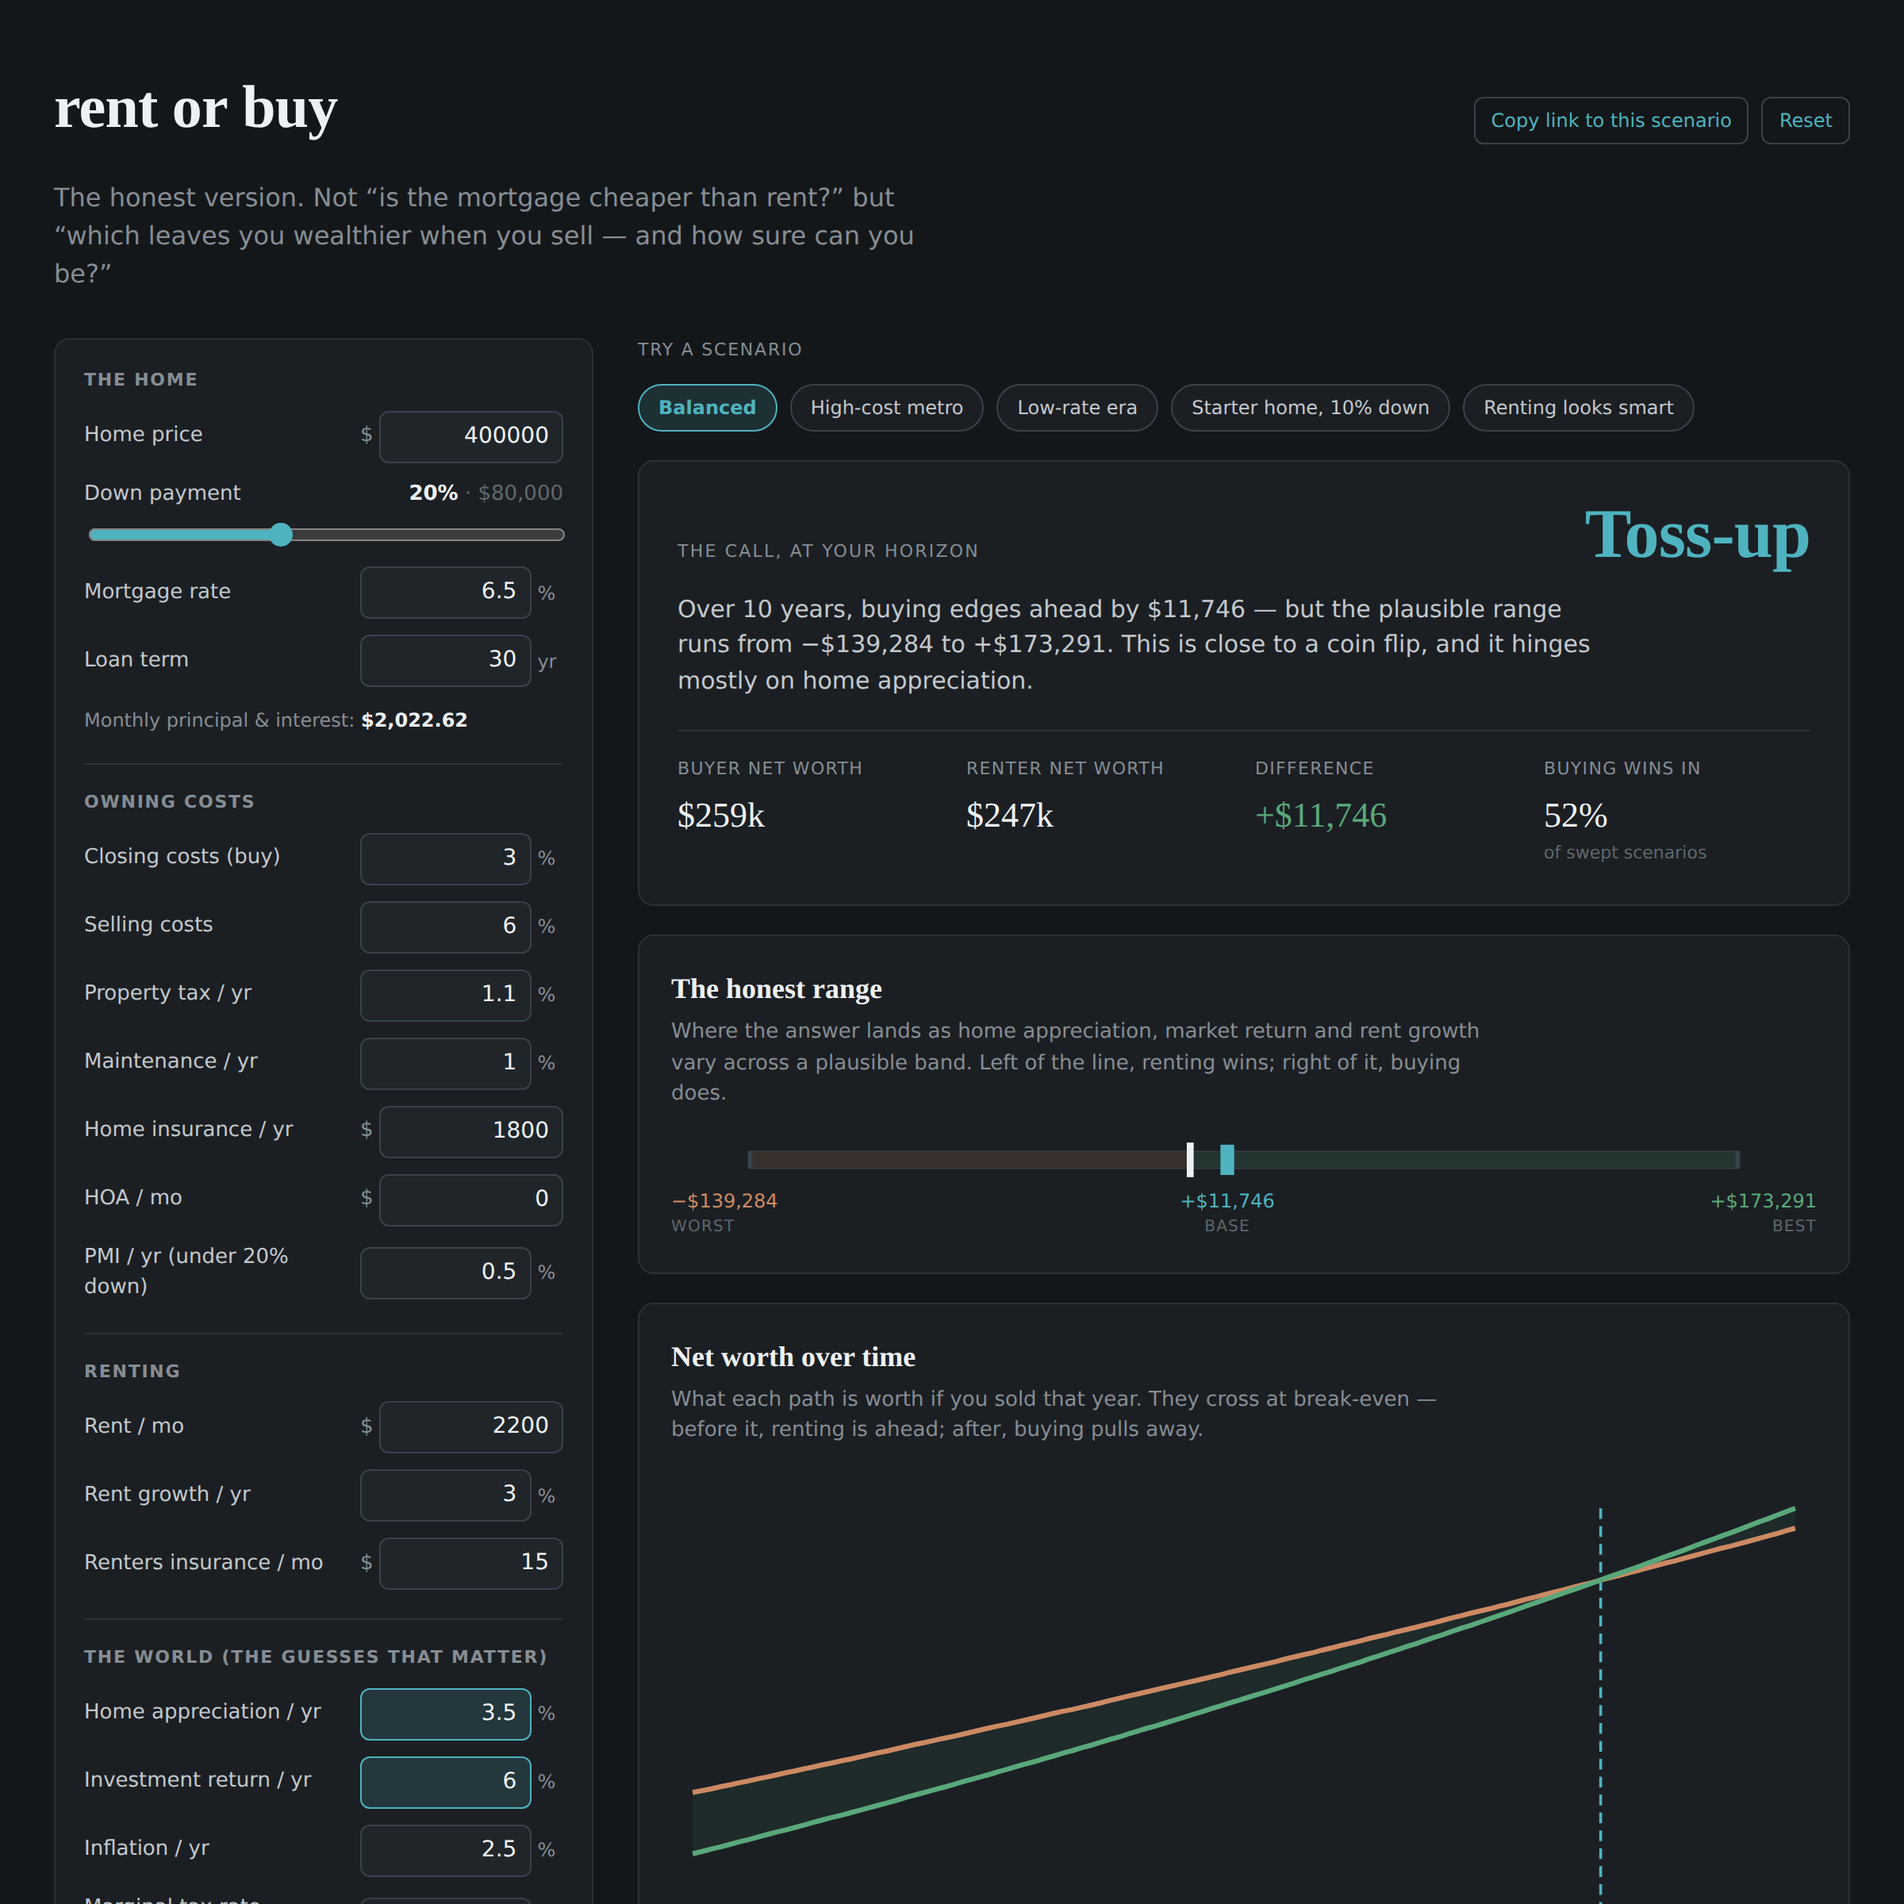
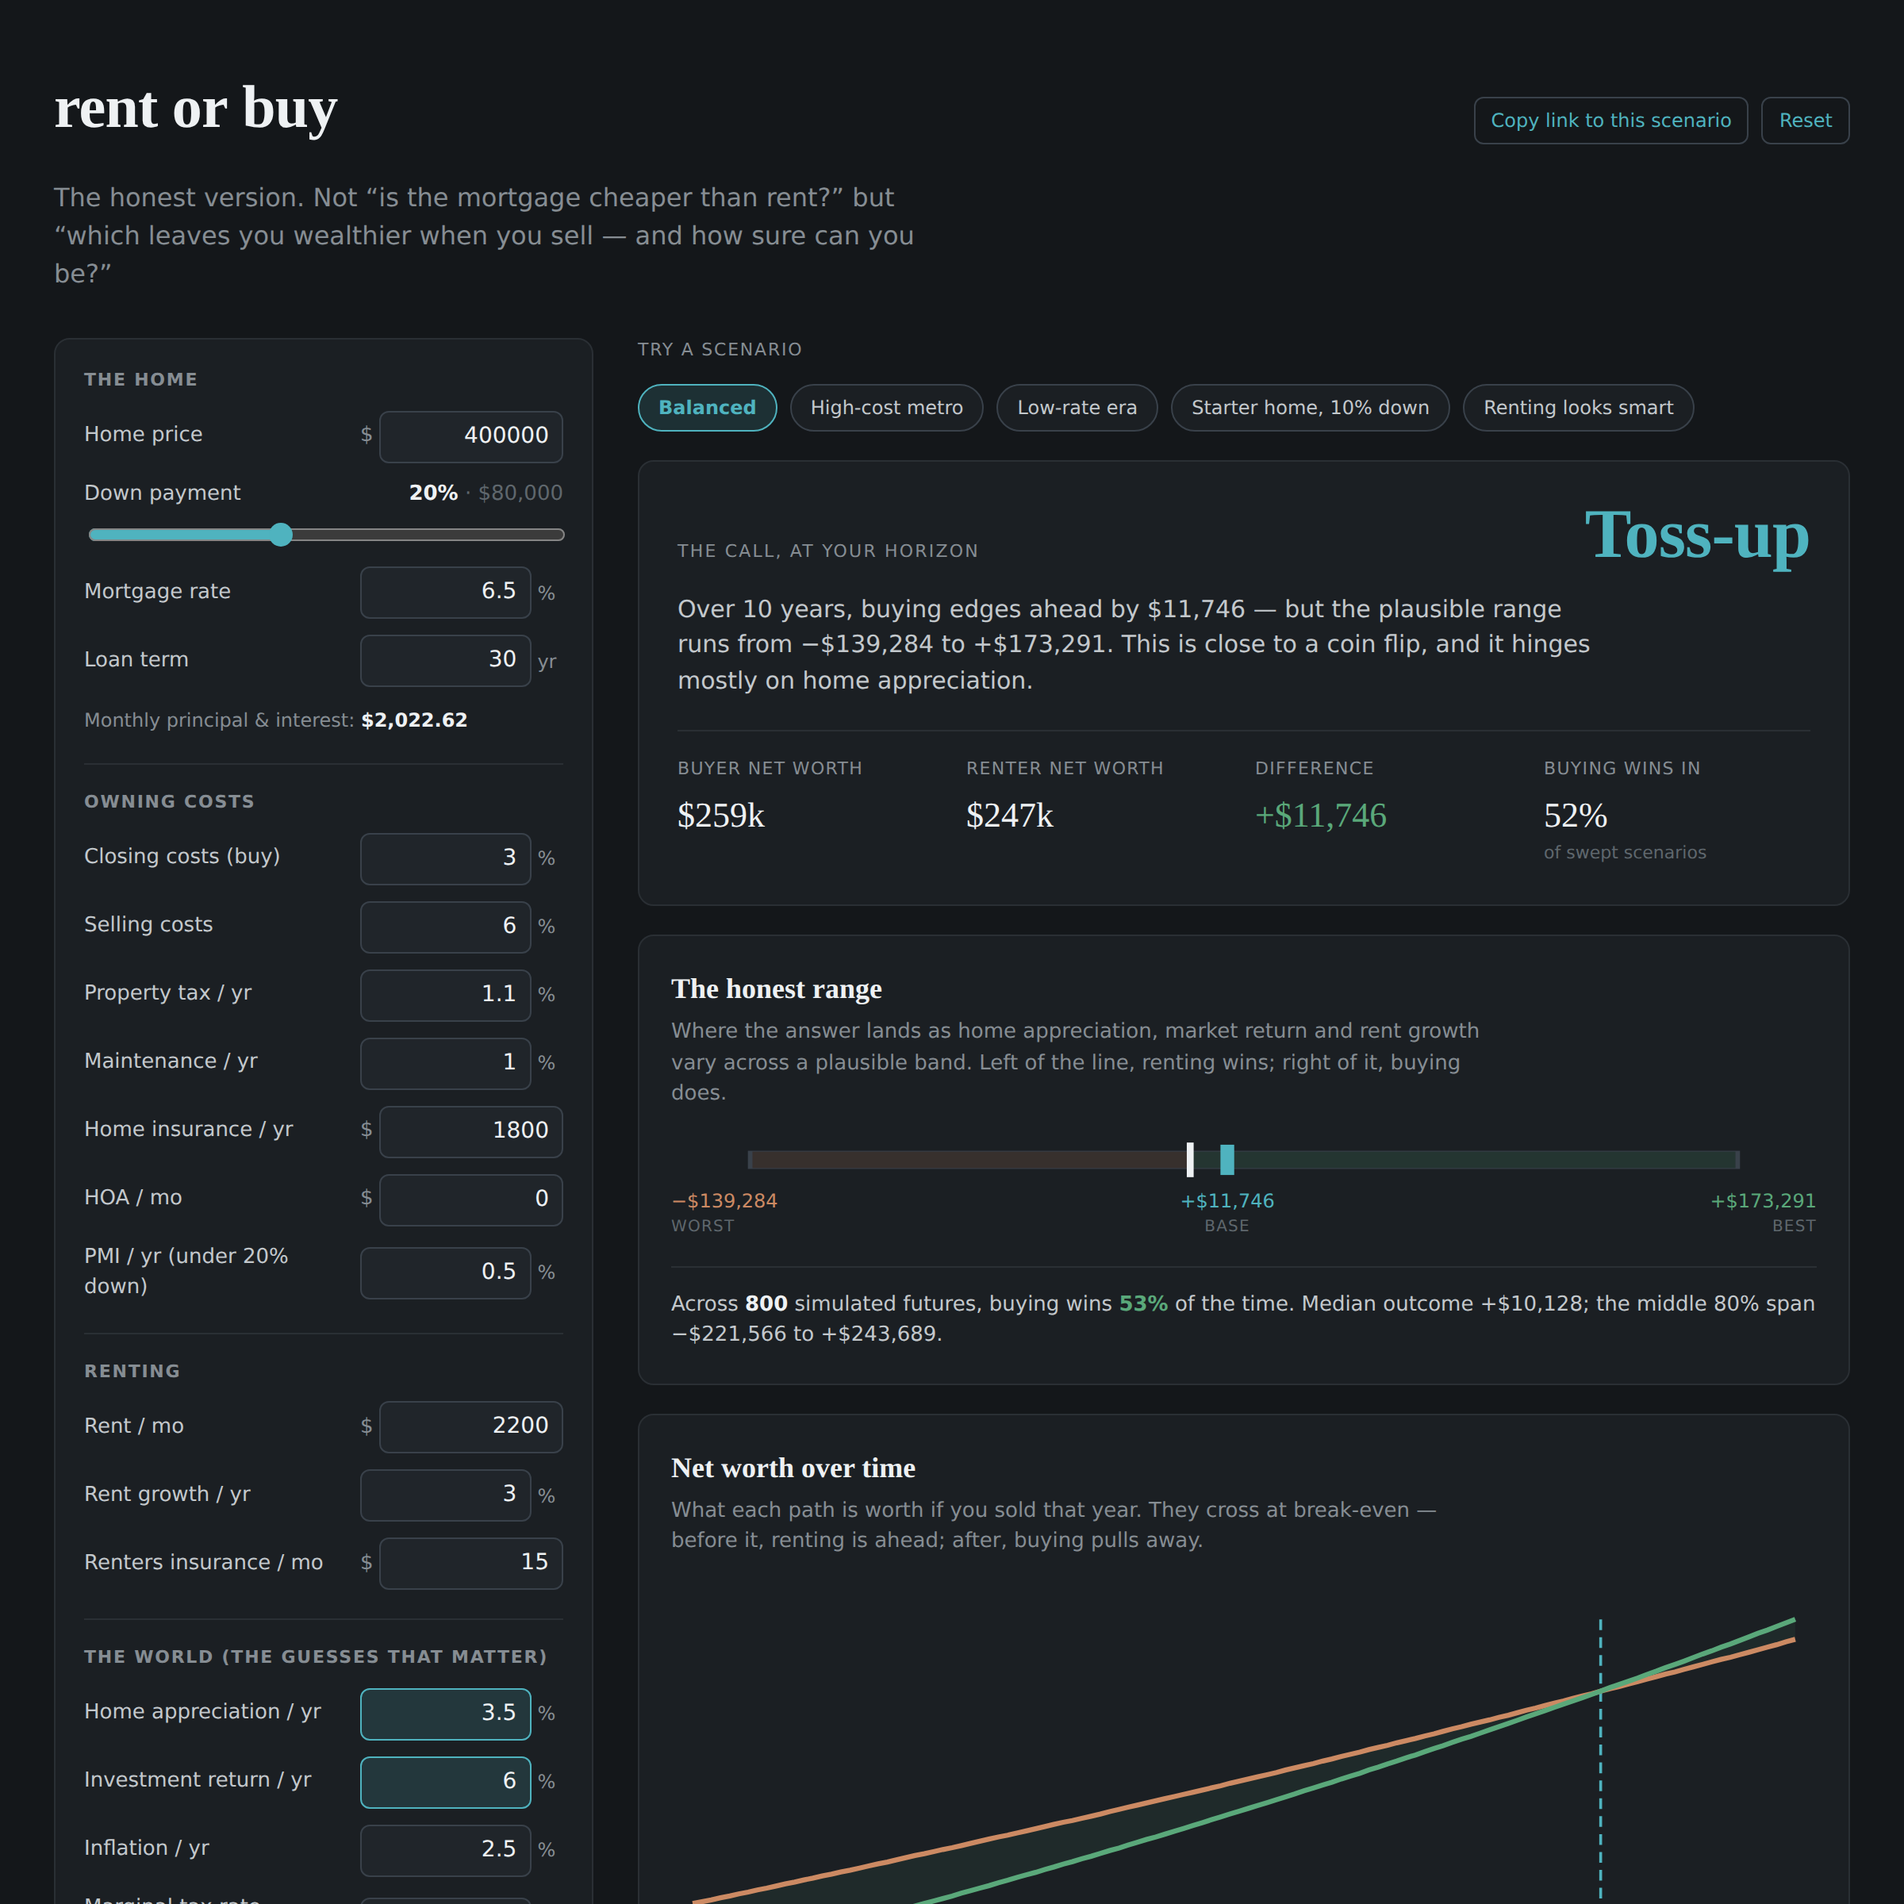
add a Monte Carlo layer
Closes the largest remaining limitation the README disclaimed (mirroring how
PMI was handled). montecarlo.ts draws each of the three drivers' horizon-
average rate from a distribution whose spread shrinks with time (σ ∝ 1/√years)
and runs the full model on every draw, reporting the probability buying wins
plus the middle-80% span of dollar outcomes. Seeded PRNG so a scenario always
simulates the same. Surfaced as a line under the honest-range bar.

Honest about its own edge: it randomizes the long-run average, not the
year-by-year path, so it still doesn't model sequence-of-returns risk — now
documented as the next step. 62 tests green.

diff --git a/src/lib/montecarlo.ts b/src/lib/montecarlo.ts
@@ -1,0 +1,110 @@
+/**
+ * Monte Carlo over the assumptions that matter.
+ *
+ * The sensitivity sweep answers "what if appreciation / market return / rent
+ * growth each land at the low, middle, or high of a band?" — nine-and-twenty
+ * discrete corners. This goes further: it draws each of those rates from a
+ * distribution a thousand times and runs the full model on every draw, so the
+ * output is a *probability* that buying wins and a spread of dollar outcomes,
+ * not just a min and a max.
+ *
+ * What's random here is the horizon-average rate for each driver, not the
+ * year-by-year path — the same framing the rest of the tool uses, extended
+ * from a grid to a smooth distribution. The spread narrows with a longer
+ * horizon because the standard error of a long-run average shrinks with time
+ * (σ ∝ 1/√years), which is honest: you're less uncertain about the average
+ * return over twenty years than over three. It deliberately does not model
+ * sequence-of-returns risk — that would need a path-based engine and is the
+ * next honest step, not this one.
+ */
+
+import { project, terminal } from "./model.js";
+import type { Inputs } from "./model.js";
+import type { Cents } from "./money.js";
+
+export interface MonteCarloOptions {
+  readonly trials?: number;
+  readonly seed?: number;
+  /** Annual volatilities of each driver. The uncertainty applied to the
+   *  horizon-average rate is this divided by √years. */
+  readonly apprAnnualVol?: number;
+  readonly investAnnualVol?: number;
+  readonly rentAnnualVol?: number;
+}
+
+export interface MonteCarloResult {
+  readonly trials: number;
+  /** Fraction of simulated futures in which buying ends ahead, in [0, 1]. */
+  readonly pBuyWins: number;
+  readonly median: Cents;
+  /** The middle 80% of outcomes: 10th and 90th percentile terminal
+   *  differences. */
+  readonly p10: Cents;
+  readonly p90: Cents;
+  readonly mean: Cents;
+}
+
+/** Small deterministic PRNG so a given scenario always simulates the same —
+ *  a calculator whose answer flickers on every render is untrustworthy. */
+function mulberry32(seed: number): () => number {
+  let a = seed >>> 0;
+  return () => {
+    a |= 0; a = (a + 0x6d2b79f5) | 0;
+    let t = Math.imul(a ^ (a >>> 15), 1 | a);
+    t = (t + Math.imul(t ^ (t >>> 7), 61 | t)) ^ t;
+    return ((t ^ (t >>> 14)) >>> 0) / 4294967296;
+  };
+}
+
+/** Standard normal via Box–Muller. */
+function normal(rng: () => number): number {
+  let u = 0;
+  let v = 0;
+  while (u === 0) u = rng();
+  while (v === 0) v = rng();
+  return Math.sqrt(-2 * Math.log(u)) * Math.cos(2 * Math.PI * v);
+}
+
+export function simulate(
+  inputs: Inputs,
+  horizonMonths: number,
+  options: MonteCarloOptions = {},
+): MonteCarloResult {
+  const years = Math.max(1, horizonMonths / 12);
+  const trials = options.trials ?? 1000;
+  const rng = mulberry32(options.seed ?? 0x9e3779b9);
+  const sAppr = (options.apprAnnualVol ?? 10) / Math.sqrt(years);
+  const sInvest = (options.investAnnualVol ?? 16) / Math.sqrt(years);
+  const sRent = (options.rentAnnualVol ?? 4) / Math.sqrt(years);
+
+  const diffs = new Array<number>(trials);
+  let wins = 0;
+  let sum = 0;
+  for (let i = 0; i < trials; i++) {
+    const appr = inputs.homeAppreciationPct + normal(rng) * sAppr;
+    const invest = Math.max(-50, inputs.investmentReturnPct + normal(rng) * sInvest);
+    const rent = Math.max(-50, inputs.rentGrowthPct + normal(rng) * sRent);
+    const d = terminal(project(
+      { ...inputs, homeAppreciationPct: appr, investmentReturnPct: invest, rentGrowthPct: rent },
+      horizonMonths,
+    )).difference;
+    diffs[i] = d;
+    sum += d;
+    if (d >= 0) wins++;
+  }
+  diffs.sort((a, b) => a - b);
+
+  const quantile = (p: number): Cents => {
+    const idx = Math.min(trials - 1, Math.max(0, Math.floor(p * trials)));
+    return diffs[idx] ?? 0;
+  };
+
+  return {
+    trials,
+    pBuyWins: wins / trials,
+    median: quantile(0.5),
+    p10: quantile(0.1),
+    p90: quantile(0.9),
+    mean: Math.round(sum / trials),
+  };
+}

diff --git a/src/app/App.tsx b/src/app/App.tsx
@@ -21,6 +21,8 @@ import { project, terminal } from "../lib/model.js";
 import type { Inputs, MonthPoint } from "../lib/model.js";
 import { analyse, verdict } from "../lib/sensitivity.js";
 import type { Sensitivity, Verdict } from "../lib/sensitivity.js";
+import { simulate } from "../lib/montecarlo.js";
+import type { MonteCarloResult } from "../lib/montecarlo.js";
 
 // ─────────────────────────── formatting ───────────────────────────────────
 
@@ -56,6 +58,7 @@ export function App(): JSX.Element {
   const { inputs, horizonMonths } = useMemo(() => buildInputs(form), [form]);
   const proj = useMemo(() => project(inputs, horizonMonths), [inputs, horizonMonths]);
   const sens = useMemo(() => analyse(inputs, horizonMonths), [inputs, horizonMonths]);
+  const mc = useMemo(() => simulate(inputs, horizonMonths, { trials: 800 }), [inputs, horizonMonths]);
   const end = terminal(proj);
   const call = verdict(sens);
 
@@ -94,7 +97,7 @@ export function App(): JSX.Element {
             <main className="rb-answer">
               <PresetRow current={form} onPick={setForm} />
               <VerdictBlock call={call} sens={sens} end={end} horizonYears={form.horizonYears} />
-              <RangeBar sens={sens} />
+              <RangeBar sens={sens} mc={mc} />
               <BreakEvenChart proj={proj} horizonMonths={horizonMonths} />
               <Tornado sens={sens} />
               <Disclosures />
@@ -311,7 +314,7 @@ function Stat({ label, value, note, color }: { label: string; value: string; not
 
 // ─────────────────────────────── range bar ────────────────────────────────
 
-function RangeBar({ sens }: { sens: Sensitivity }): JSX.Element {
+function RangeBar({ sens, mc }: { sens: Sensitivity; mc: MonteCarloResult }): JSX.Element {
   const W = 100;
   const lo = Math.min(sens.worst, 0);
   const hi = Math.max(sens.best, 0);
@@ -354,6 +357,12 @@ function RangeBar({ sens }: { sens: Sensitivity }): JSX.Element {
           <span className="rb-range-best">{signed(sens.best)}<em>best</em></span>
         </div>
       </div>
+      <p className="rb-mc">
+        Across <b>{mc.trials.toLocaleString("en-US")}</b> simulated futures,
+        buying wins <b style={{ color: mc.pBuyWins >= 0.5 ? "var(--buy)" : "var(--rent)" }}>{Math.round(mc.pBuyWins * 100)}%</b> of
+        the time. Median outcome {signed(mc.median)}; the middle 80% span{" "}
+        {signed(mc.p10)} to {signed(mc.p90)}.
+      </p>
     </section>
   );
 }
@@ -597,6 +606,8 @@ function Tokens(): JSX.Element {
       .rb-range-worst { position: absolute; left: 0; color: var(--rent); }
       .rb-range-best { position: absolute; right: 0; text-align: right; color: var(--buy); }
       .rb-range-base { position: absolute; transform: translateX(-50%); text-align: center; color: var(--accent); }
+      .rb-mc { font-size: 13px; color: var(--text); margin: 16px 0 0; padding-top: 14px; border-top: 1px solid var(--line); }
+      .rb-mc b { color: var(--ink); }
 
       /* chart */
       .rb-chart-svg { width: 100%; height: auto; display: block; }

diff --git a/tests/montecarlo.test.ts b/tests/montecarlo.test.ts
@@ -1,0 +1,72 @@
+import { describe, expect, it } from "vitest";
+import { dollarsToCents } from "../src/lib/money.js";
+import type { Inputs } from "../src/lib/model.js";
+import { simulate } from "../src/lib/montecarlo.js";
+
+const BASE: Inputs = {
+  homePrice: dollarsToCents("400000"),
+  downPayment: dollarsToCents("80000"),
+  mortgageRatePct: 6.5,
+  termYears: 30,
+  closingCostsBuy: dollarsToCents("12000"),
+  sellingCostsPct: 6,
+  propertyTaxPct: 1.1,
+  homeInsuranceAnnual: dollarsToCents("1800"),
+  maintenancePct: 1,
+  hoaMonthly: dollarsToCents("0"),
+  homeAppreciationPct: 3.5,
+  monthlyRent: dollarsToCents("2200"),
+  rentGrowthPct: 3,
+  rentersInsuranceMonthly: dollarsToCents("15"),
+  investmentReturnPct: 6,
+  inflationPct: 2.5,
+  marginalTaxRatePct: 0,
+  pmiRatePct: 0.5,
+};
+
+describe("simulate", () => {
+  it("is deterministic for a given seed", () => {
+    const a = simulate(BASE, 120, { seed: 42, trials: 400 });
+    const b = simulate(BASE, 120, { seed: 42, trials: 400 });
+    expect(a).toEqual(b);
+  });
+
+  it("returns a probability in [0, 1] and ordered percentiles", () => {
+    const r = simulate(BASE, 120, { trials: 500 });
+    expect(r.pBuyWins).toBeGreaterThanOrEqual(0);
+    expect(r.pBuyWins).toBeLessThanOrEqual(1);
+    expect(r.p10).toBeLessThanOrEqual(r.median);
+    expect(r.median).toBeLessThanOrEqual(r.p90);
+  });
+
+  it("a strongly buy-favorable scenario wins most of the time", () => {
+    const r = simulate({
+      ...BASE,
+      monthlyRent: dollarsToCents("3800"),
+      homeAppreciationPct: 5,
+      mortgageRatePct: 4,
+    }, 240, { trials: 600 });
+    expect(r.pBuyWins).toBeGreaterThan(0.8);
+  });
+
+  it("a strongly rent-favorable scenario loses most of the time", () => {
+    const r = simulate({
+      ...BASE,
+      monthlyRent: dollarsToCents("1300"),
+      homeAppreciationPct: 1,
+      investmentReturnPct: 8,
+      sellingCostsPct: 8,
+    }, 36, { trials: 600 });
+    expect(r.pBuyWins).toBeLessThan(0.2);
+  });
+
+  it("uncertainty (the 10–90 spread) narrows with a longer horizon", () => {
+    const short = simulate(BASE, 36, { seed: 7, trials: 600 });
+    const long = simulate(BASE, 300, { seed: 7, trials: 600 });
+    // Per dollar-year the spread should be tighter far out; compare the raw
+    // spread scaled by years to reflect the √years shrinkage in the average.
+    const shortSpreadPerYear = (short.p90 - short.p10) / 3;
+    const longSpreadPerYear = (long.p90 - long.p10) / 25;
+    expect(longSpreadPerYear).toBeLessThan(shortSpreadPerYear);
+  });
+});

diff --git a/README.md b/README.md
@@ -50,14 +50,17 @@ guessing at. Showing that is the entire point.
 - `src/lib/sensitivity.ts` — the range and the tornado: sweep the three
   drivers that matter, report the outcome band and which assumption swings
   it most.
+- `src/lib/montecarlo.ts` — a thousand simulated futures: draws each driver
+  from a distribution and reports the probability buying wins plus the middle
+  80% of dollar outcomes.
 - `src/cli/analyze.ts` — the headless report above. `npm run analyze [years]`.
-- 45 tests, including the economics moving the right way in every direction.
+- 62 tests, including the economics moving the right way in every direction.
 
 ## Running
 
 ```
 npm install
-npm test              # 45 tests, all green
+npm test              # 62 tests, all green
 npm run analyze 10    # the report, for a 10-year horizon
 ```
 
@@ -101,10 +104,12 @@ An honest tool is honest about its edges. This model, in its current form:
 - **Assumes a fixed rate and no refinancing.** No ARMs, no rate path, no
   refi. A fixed 30-year is the honest default; the rest is a forecast on top
   of a forecast.
-- **Is deterministic, not Monte Carlo.** The range comes from sweeping
-  assumptions across a plausible band, not from simulating return
-  volatility. That understates tail risk on the invested side and is the
-  most likely next addition.
+- **Monte Carlo randomizes the long-run average, not the path.** The
+  simulation (`src/lib/montecarlo.ts`) draws each driver's horizon-average
+  rate from a distribution whose spread shrinks with time (σ ∝ 1/√years) and
+  reports a probability plus percentile outcomes — but it still does not
+  model year-by-year *sequence-of-returns* risk, which would need a
+  path-based engine. That's the next honest step, not this one.
 - **Grows property tax with market value.** Places with assessment caps
   (California's Prop 13, say) would tax more slowly than this assumes.
 
